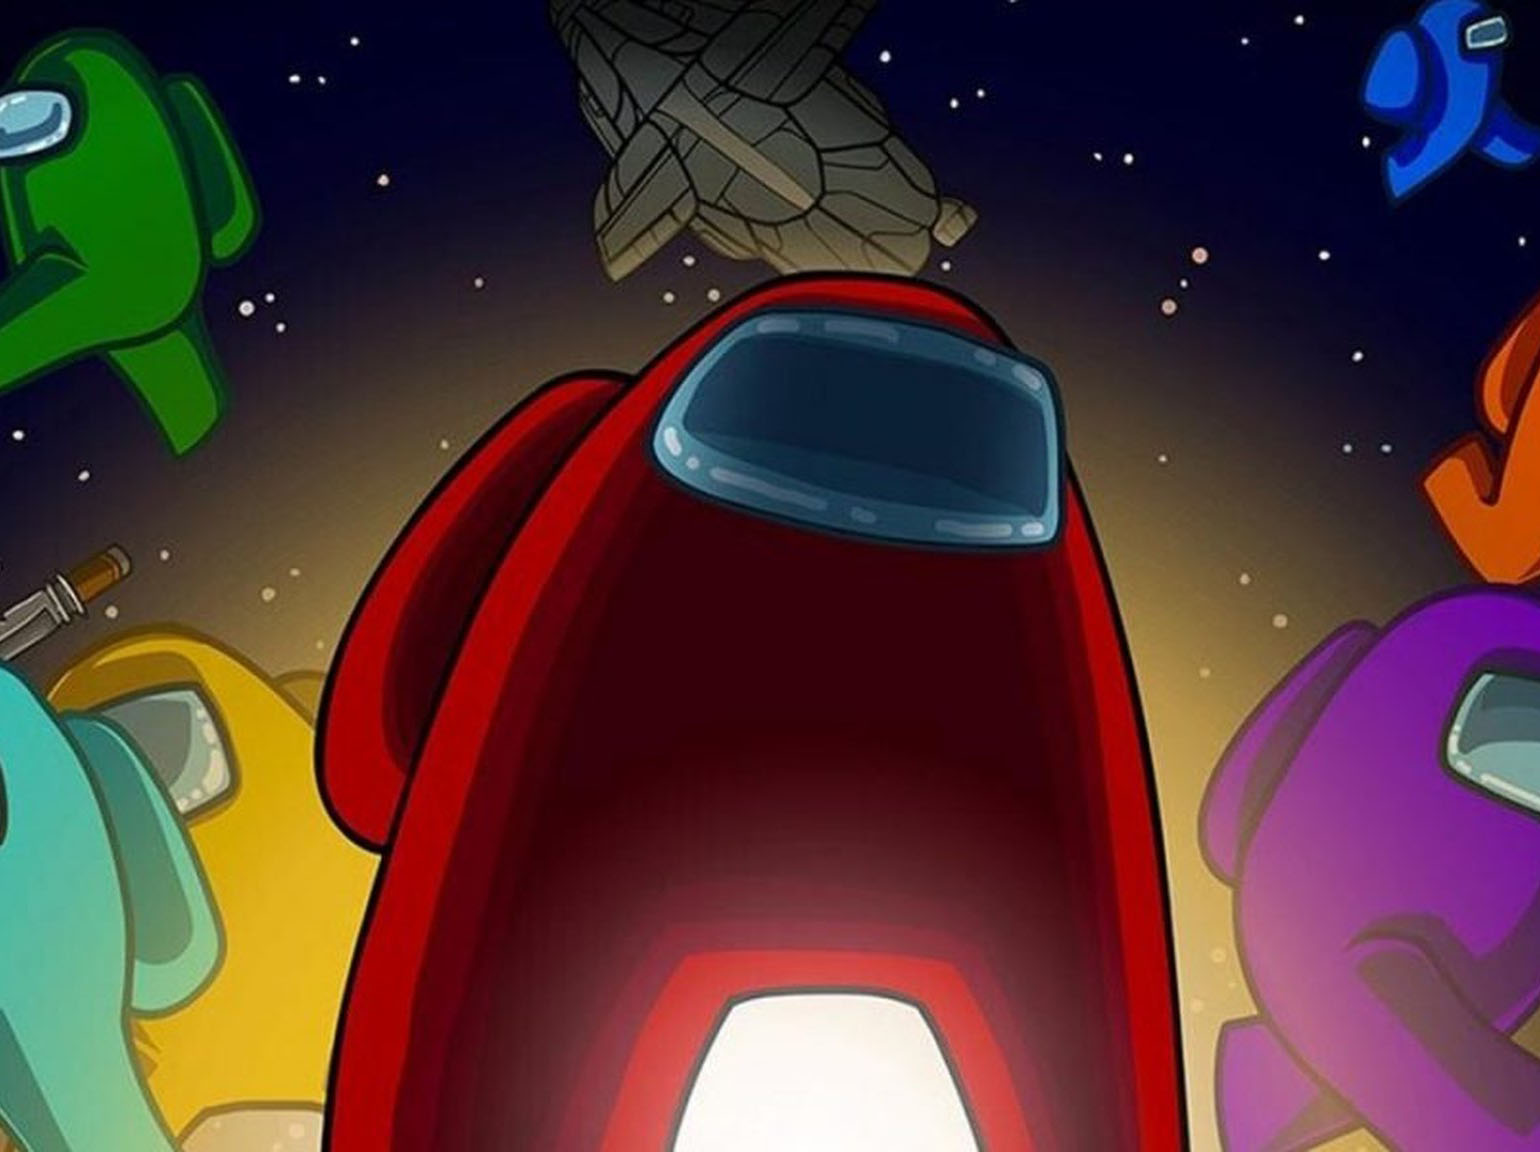
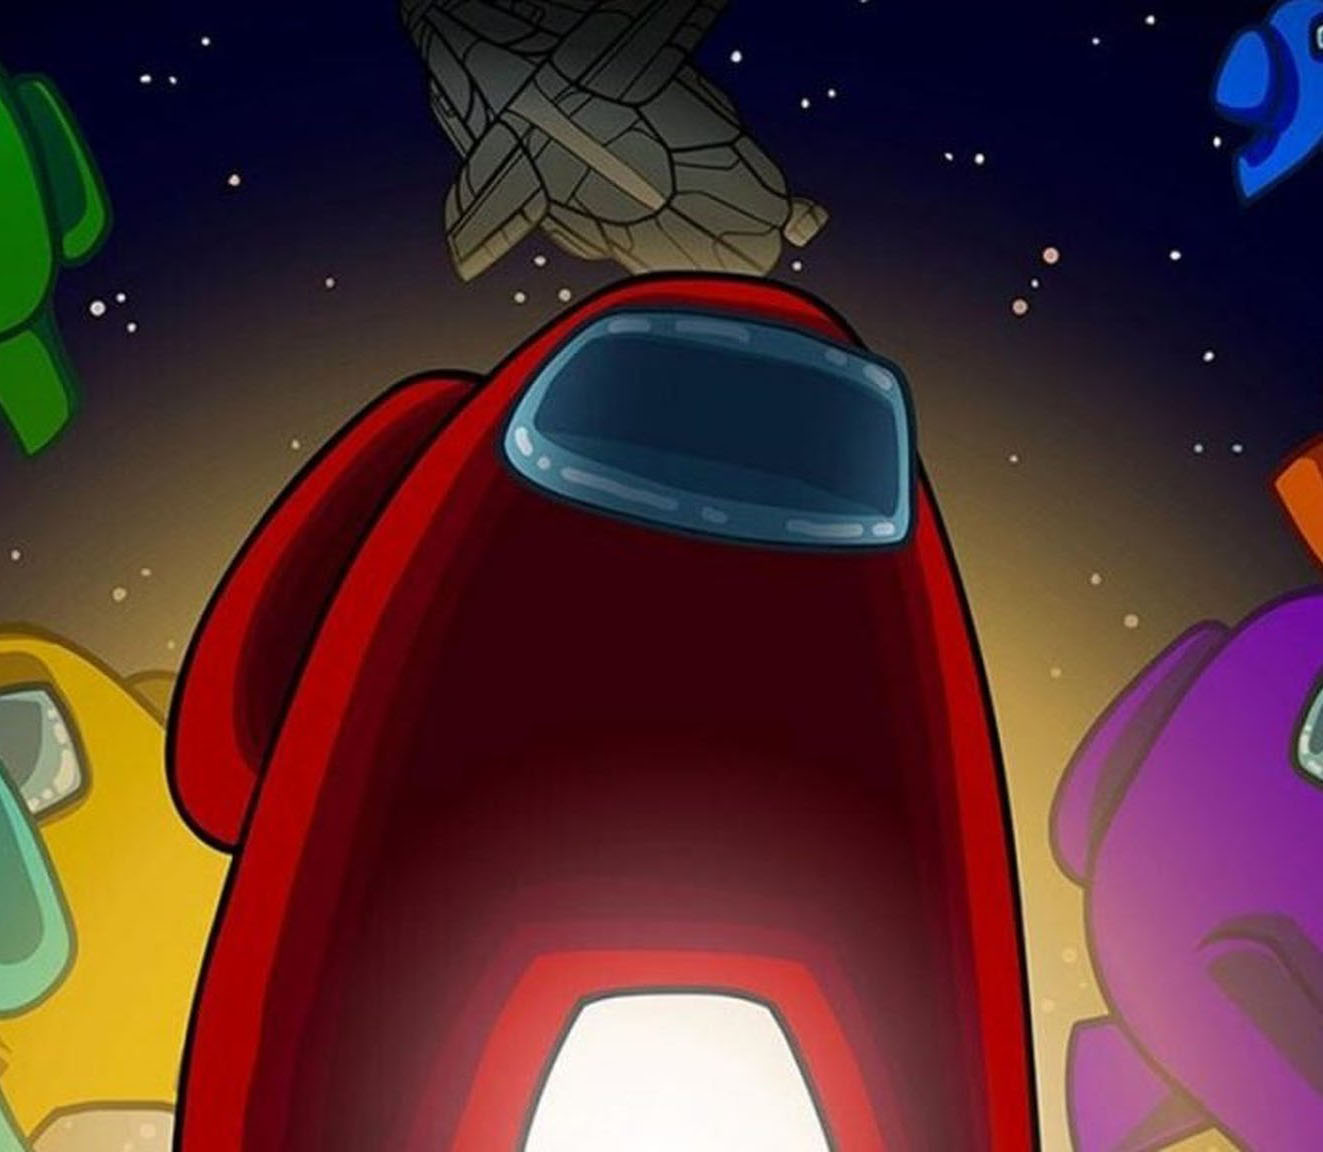
update responsible

diff --git a/index.html b/index.html
@@ -5,6 +5,7 @@
     <link rel="stylesheet" href="style.css">
     <link rel="preconnect" href="https://fonts.gstatic.com">
     <link href="https://fonts.googleapis.com/css2?family=Roboto&display=swap" rel="stylesheet">
+    <meta name="viewport" content="width=device-width,initial-scale=1">
     <title>ISSO WORLD</title>
 </head>
 <body>
@@ -28,14 +29,15 @@
     <div class="wrapper">
        <div id="main">
         <div class="content" id="content1">
-        <img src="images/profile.jpg" alt="" width="300">
+        <img class="std-image" src="images/profile.jpg" alt="" width="300">
         <div class="right-box">
         <h1 class="top-title">What's NAME?</h1>
         <h2>いっそ</h2>
         <p>メンター名は「いっそ」って言います。<br>
            その由来はシンプルで、本名が「磯貝 和希(いそがい かずき)」だからです。<br>
-           兄と小学校の時から同じように呼ばれていたので一時期「いっそ jr.」って呼ばれてた時もありました。
+           兄と小学校の時から同じように呼ばれていたので一時期「いっそ Jr.」って呼ばれてた時もありました。
         </p>
+        <img class="sp-image" src="images/profile.jpg" alt="" width="300">
 <!--
         <a href="https://www.facebook.com/isogai.kazu" class="fbbutton">FaceBook
             <span class="edge edge1"></span>
@@ -54,8 +56,9 @@
         <p>私は法政大学 情報科学部 コンピュータ科学科所属の1年生です。<br>
            今年は、コロナで全てオンラインだったので、学校に行けた回数はたったの3回です(笑)。
         </p>
+        <img class="sp-image" src="images/univ.jpg" alt="" width="300">
         </div>
-        <div class="flip-animation">
+        <div class="flip-animation std-image">
             <img src="images/univ.jpg" alt="" width="300">
             <div class="caption">
                 <h2>2015, 06, 10</h2>
@@ -65,7 +68,7 @@
         </div>
 
         <div class="content" id="content3">
-        <img src="images/leaders.jpg" alt="" width="300">
+        <img class="std-image" src="images/leaders.jpg" alt="" width="300">
         <div class="right-box">
         <h1 class="top-title">What's COURSE?</h1>
         <h2>WebSコース</h2>
@@ -73,6 +76,7 @@
            最終成果物は<a href="https://keypod.net" target="_blank">Keypod</a>で、劇などで使えるポン出しアプリを作りました。<br>
            メンバー時代からWebSメンターかっこいいと思っていたので、夢が叶ってよかったです。
         </p>
+        <img class="sp-image" src="images/leaders.jpg" alt="" >
         </div>
         </div>
 
@@ -81,11 +85,12 @@
         <h1 class="top-title">What's HOBBY?</h1>
         <h2>Among Us</h2>
         <p>最近はAmong Usという人狼チックなゲームにハマってます。<br>
-           もちろん人狼側でもプレイしますが、大学の友達に嘘がつけなさ過ぎて、正直弱いです(笑)
+           もちろん人狼側もプレイしますが、大学の友達に嘘がつけなさ過ぎて、正直弱いです(笑)
            だからもっとうまくなりたいです...。
         </p>
+        <img class="sp-image" src="images/amongus.jpg" alt="">
         </div>
-        <img src="images/amongus.jpg" alt="" width="300">
+        <img class="std-image" src="images/amongus.jpg" alt="" width="300">
         </div>     
      
       </div>

diff --git a/style.css b/style.css
@@ -13,7 +13,7 @@ body{
 #header{
     width: 100%;
     overflow: hidden;
-    background: #e63c35;
+    background: #ff8b22;
     padding: 6px 0;
     z-index: 2;
     margin-bottom: 24px;
@@ -80,7 +80,7 @@ h1{
 */
 
 h2{
-    color: #e63c35;
+    color: #ff8b22;
 }
 
 p{
@@ -194,6 +194,10 @@ img{
     float: left;
 }
 
+.sp-image{
+    display: none;
+}
+
 iframe{
     float: left;
 }
@@ -218,14 +222,14 @@ iframe{
     margin-bottom: 16px;
     color: #555;
     font-weight: 400;
-    border-left: 6px solid #e63c35;
+    border-left: 6px solid #ff8b22;
 }
 
 p.new{
     width: 70px;
     height: 70px;
     border-radius: 50%;
-    background-color: #e63c35;
+    background-color: #ff8b22;
     color: white;
     text-align: center;
     line-height: 65px;
@@ -287,7 +291,7 @@ p.new{
 #content2 .flip-animation .caption{
     position: absolute;
     padding: 20px;
-    background: #e63c35;
+    background: #ff8b22;
     height: 185px;
     width: 100px;
     
@@ -344,4 +348,44 @@ p.new{
 #content2 .flip-animation .caption h3{
     color: white;
     font-size: 15px;
+}
+
+@media screen and (max-width:768px) {
+
+    .main_visual{
+        background-position: 25% 0%;
+    }
+
+    .wrapper{
+        width: 100%;
+    }
+
+    nav{
+        width: 100%;
+        padding: 0 calc((100% - 363.53px) / 2);
+    }
+    
+    #main{
+        padding: 0;
+        width: 100%;
+    }
+    
+    img, .flip-animation{
+        float: none;
+        margin: 0 auto;
+        width: 100%;
+    }
+    
+    .right-box, .left-box, #sidebar{
+        width: calc(100% - 32px);
+        margin: 16px;
+    }
+    
+    .sp-image{
+        display: block;
+    }
+    
+    .std-image{
+        display: none;
+    }
 }
